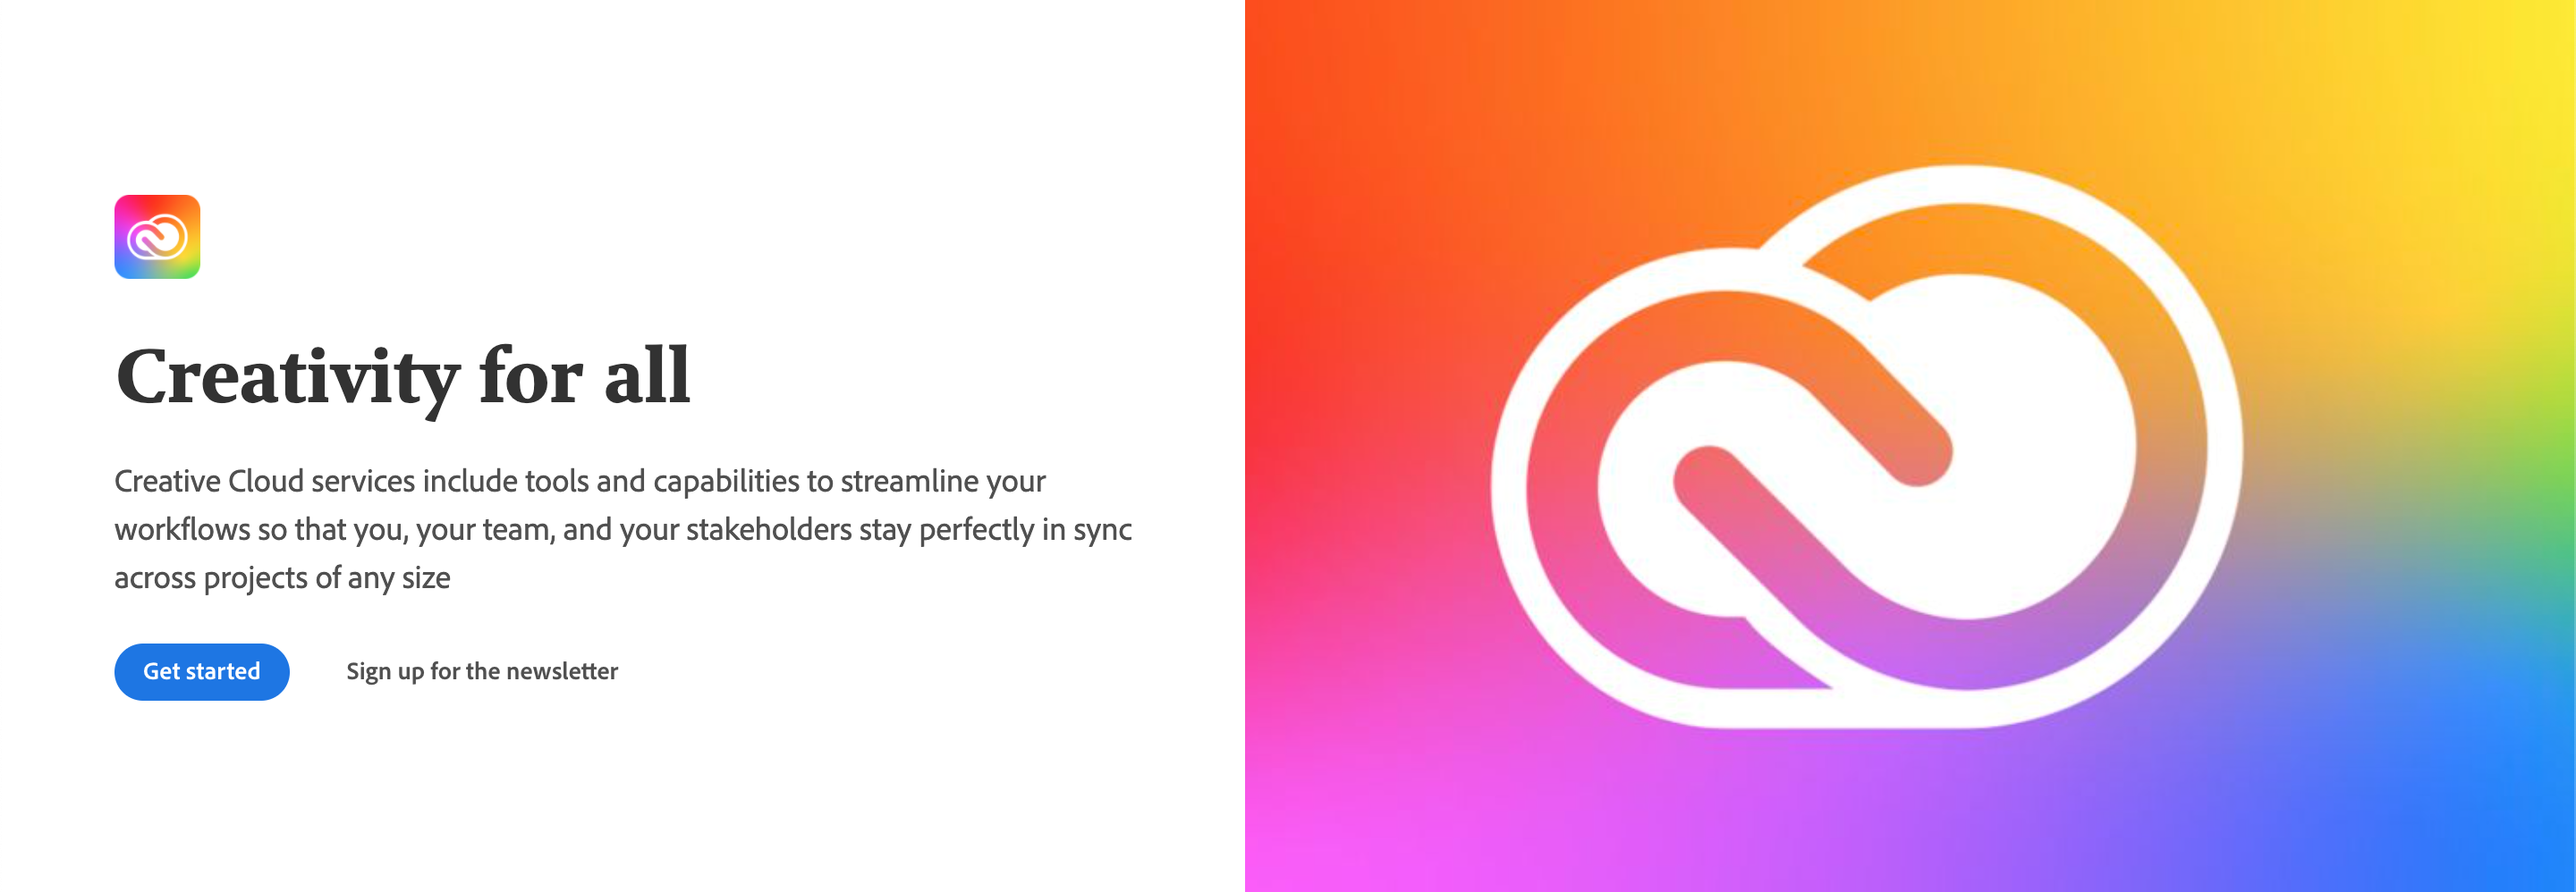
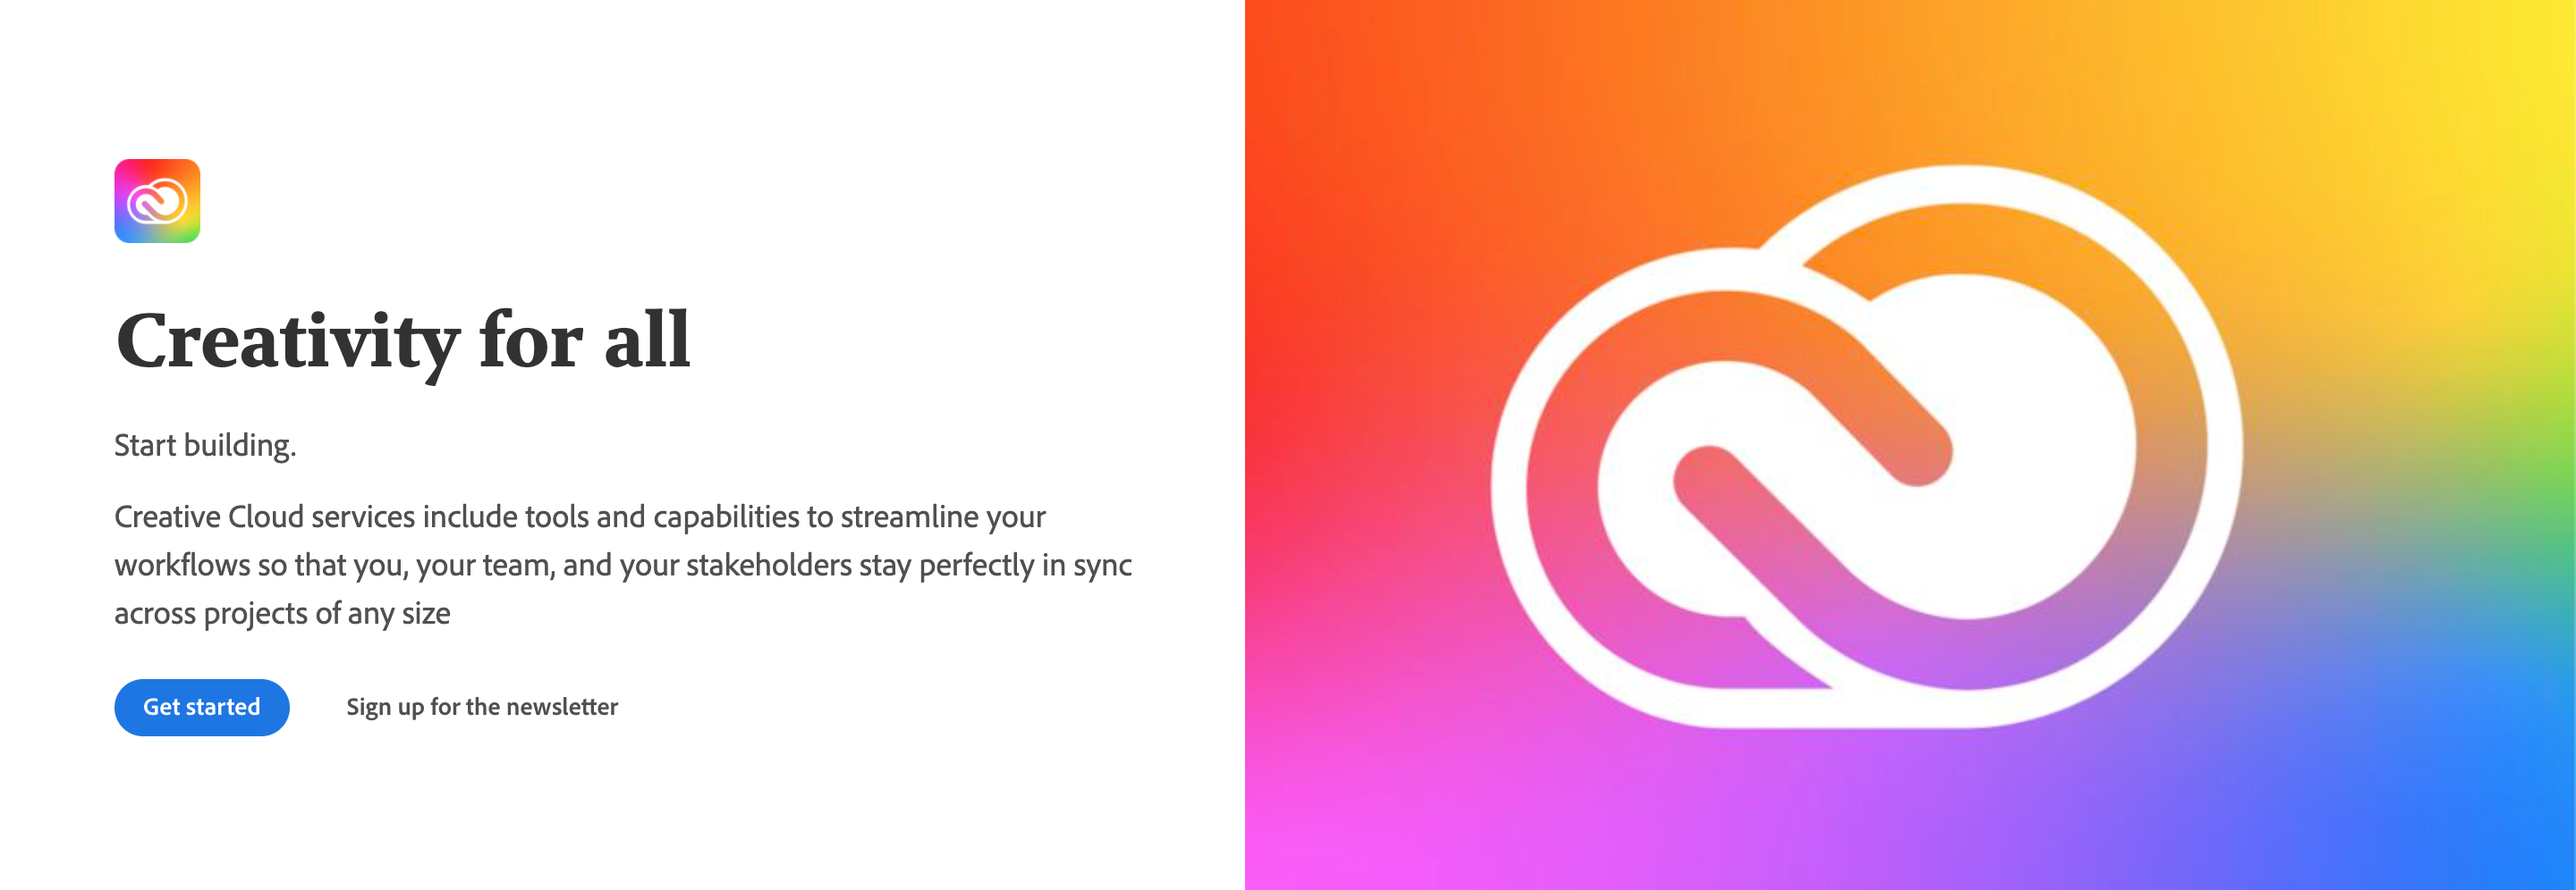
docs: Add multiline text Hero example

diff --git a/example/src/pages/creative_cloud/index.md b/example/src/pages/creative_cloud/index.md
@@ -3,18 +3,20 @@ title: Home - Creative Cloud
 description: This is the home page of Creative Cloud 
 ---
  
-<Hero slots="image, heading, icon, text, buttons" variant="halfwidth" />
+<Hero slots="image, icon, heading, text1, text2, buttons" variant="halfwidth" />
 
 ![Creative Cloud banner](images/cc-hero.png)
 
+![Creative Cloud icon](images/cc-icon.png)
+
 # Creativity for all
 
-![Creative Cloud icon](images/cc-icon.png)
+Start building.
 
 Creative Cloud services include tools and capabilities to streamline your workflows so that you, your team, and your stakeholders stay perfectly in sync across projects of any size 
 
 * [Get started](https://adobe.io)
-* [Sign up for the newsletter](https://adobe.io)
+* [Sign up for the newsletter](https://adobe.io) 
 
 
 

diff --git a/README.md b/README.md
@@ -745,13 +745,15 @@ Use `theme` to match the text color to your color scheme. Defaults to `dark`.
 ![hero halfwidth](docs/images/hero-halfwidth.png)
 
 ```
-<Hero slots="image, heading, icon, text, buttons" variant="halfwidth" />
+<Hero slots="image, icon, heading, text1, text2, buttons" variant="halfwidth" />
 
 ![Creative Cloud banner](images/cc-hero.png)
 
+![Creative Cloud icon](images/cc-icon.png)
+
 # Creativity for all
 
-![Creative Cloud icon](images/cc-icon.png)
+Start building.
 
 Creative Cloud services include tools and capabilities to streamline your workflows so that you, your team, and your stakeholders stay perfectly in sync across projects of any size 
 
